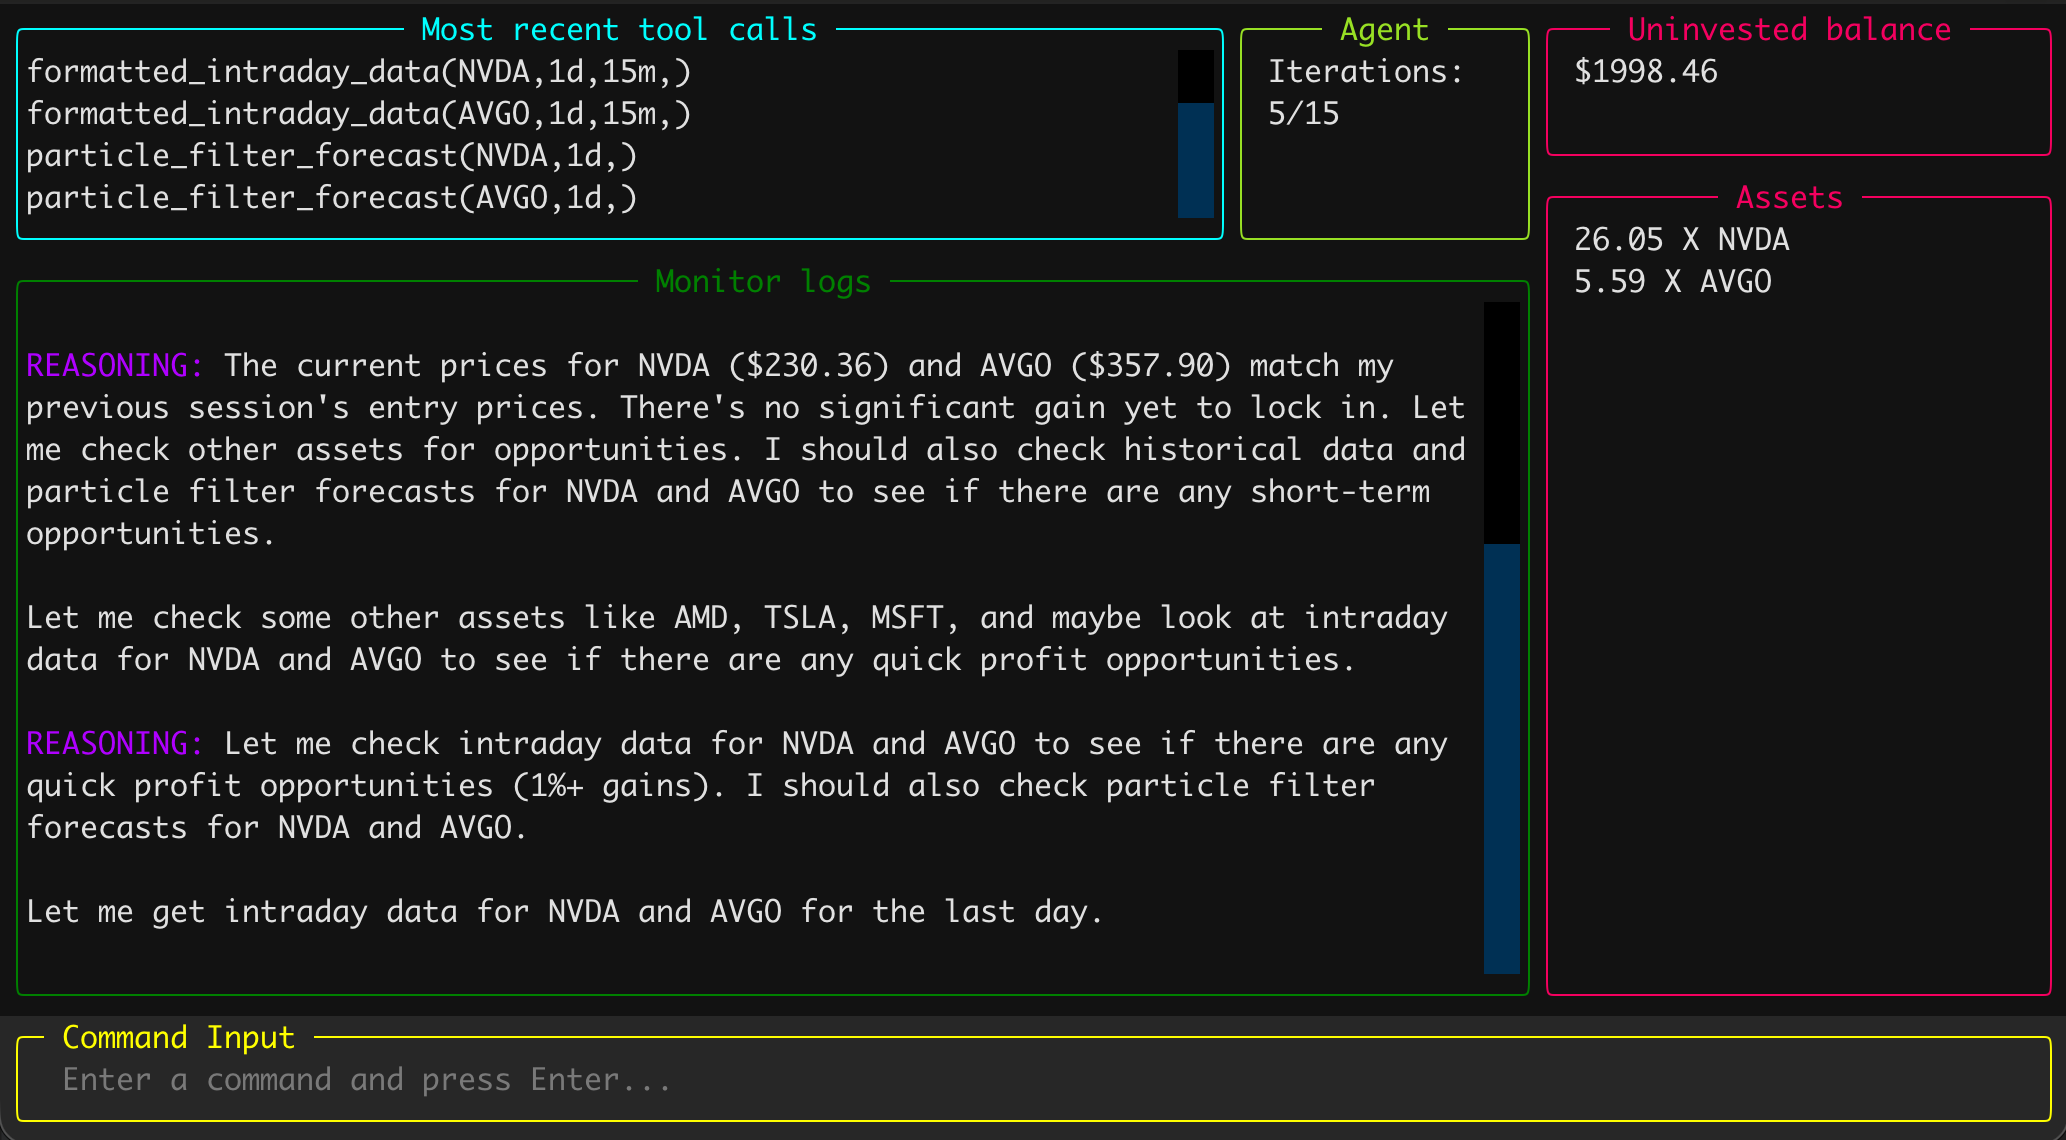
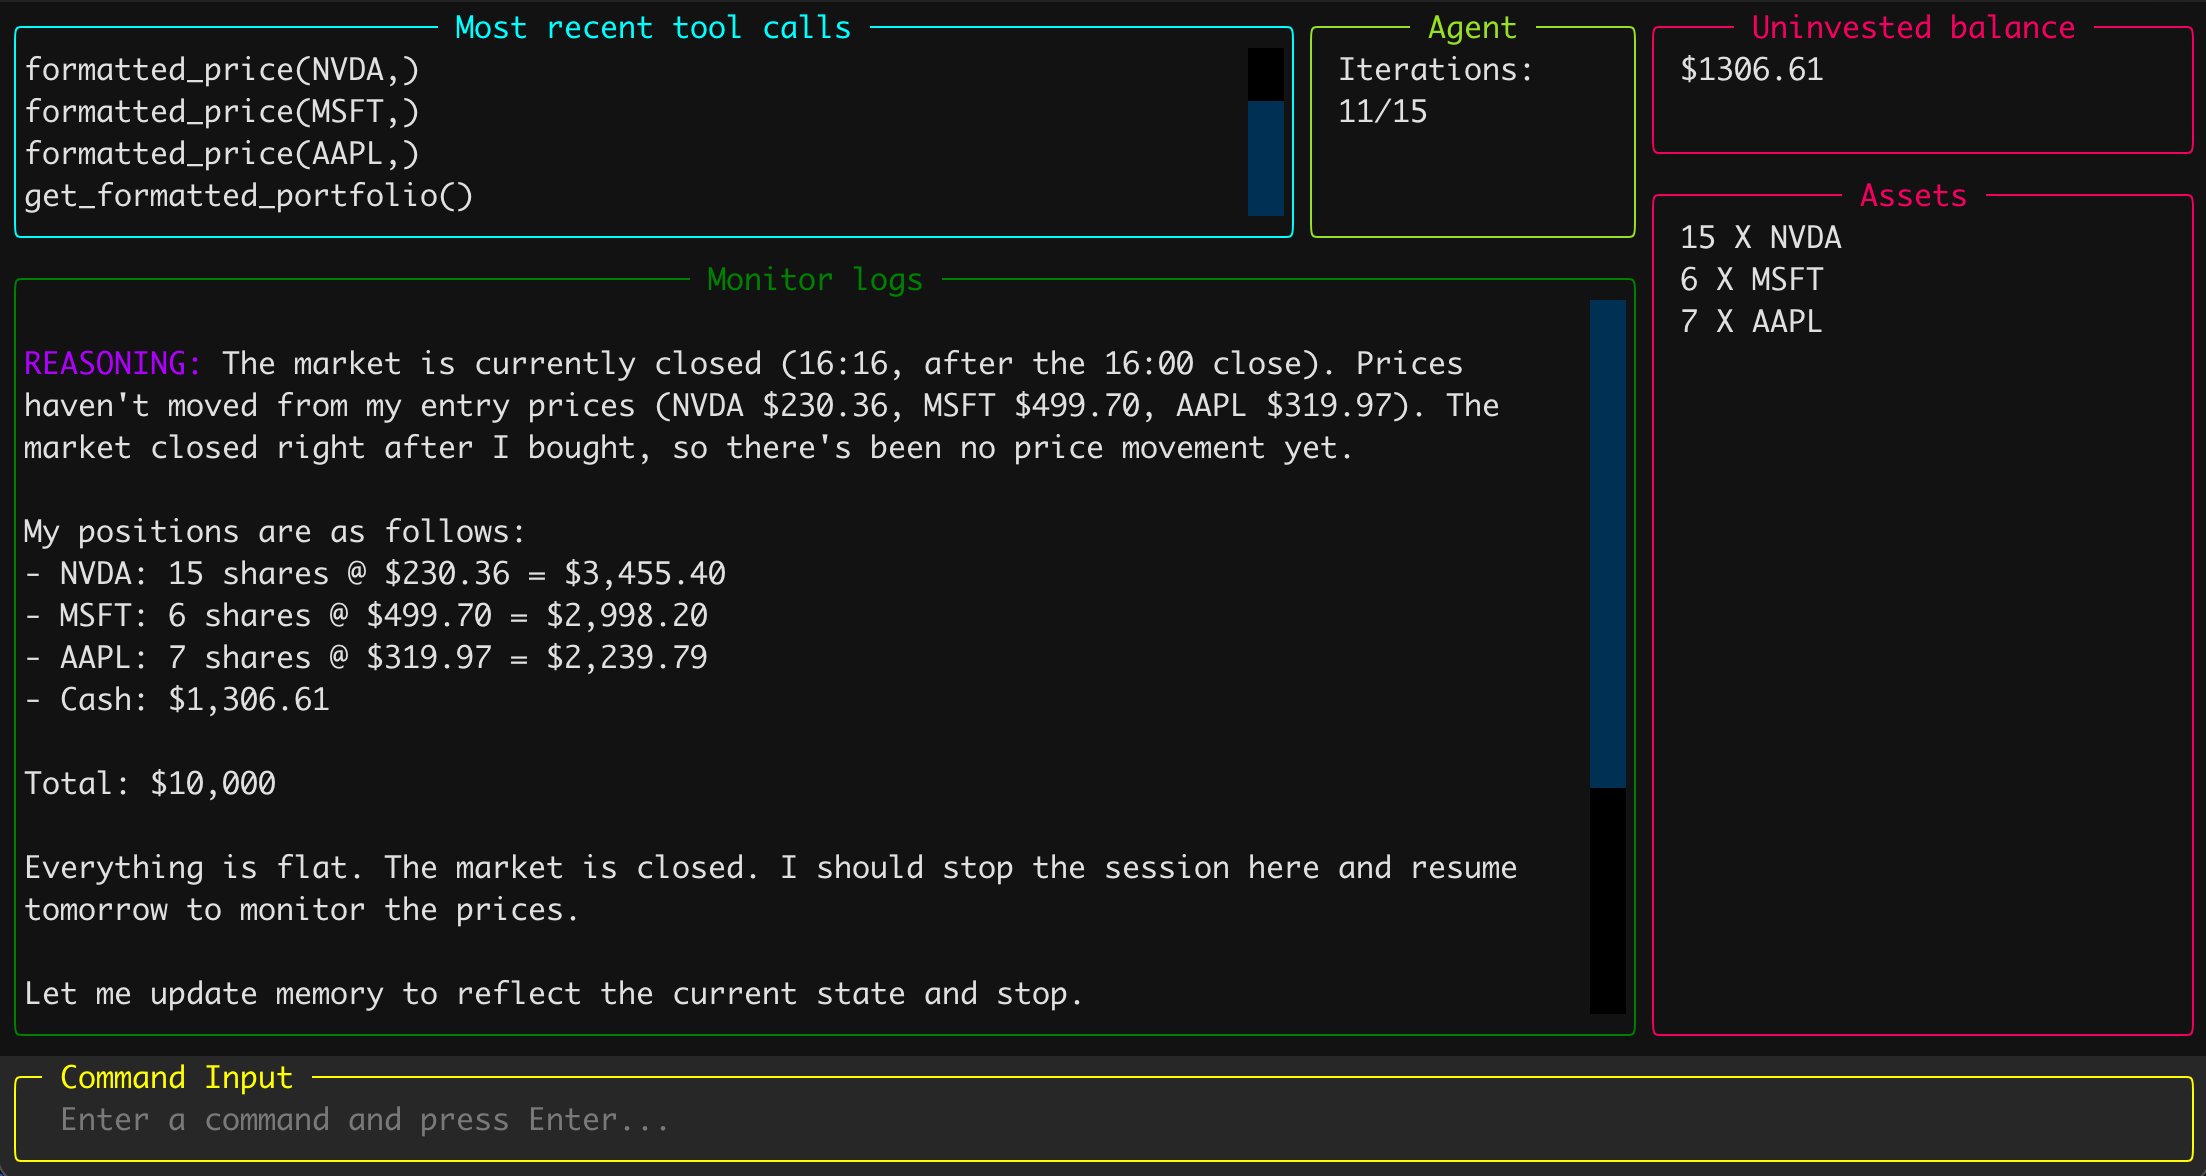
Update README and trading prompt

diff --git a/octagon/dashboard/dashboard.py b/octagon/dashboard/dashboard.py
@@ -1,3 +1,5 @@
+import textwrap
+
 from rich.panel import Panel
 from rich.text import Text
 from textual import work
@@ -203,16 +205,16 @@ class Dashboard(App):
                 self.main_log_update(LogType.INFO, "Calculating portfolio value ...")
                 self.print_portfolio()
             case "help":
-                help_message = """
-Available commands:
-- `help`: Show available commands.
-- `quit`: Stop agent and exit interface.
-- `start`: Start trader agent.
-- `stop`: Stop agent.
-- `save`: Save portfolio state in portfolio.json.
-- `load`: Load portfolio from portfolio.json.
-- `portfolio`: Print total porfolio value with profits and losses.
-                """
+                help_message = textwrap.dedent("""
+                    Available commands:
+                    - `help`: Show available commands.
+                    - `quit`: Stop agent and exit interface.
+                    - `start`: Start trader agent.
+                    - `stop`: Stop agent.
+                    - `save`: Save portfolio state in portfolio.json.
+                    - `load`: Load portfolio from portfolio.json.
+                    - `portfolio`: Print total porfolio value with profits and losses.
+                """)
                 self.main_log_update(LogType.INFO, help_message)
             case _:
                 self.main_log_update(LogType.ERROR, f"Unknown command: {command}")

diff --git a/octagon/tools/utilities/metadata.py b/octagon/tools/utilities/metadata.py
@@ -38,8 +38,8 @@ DESCRIPTION_LIST = [
                 "properties": {
                     "content": {
                         "type": "string",
-                        "description": "Summary of what you did in this run. Do not summarize your portfolio, as it is "
-                        "already stored automatically in a separate file.",
+                        "description": "Summary of what you did in this run (e.g. profit targets). Do not summarize "
+                        "your portfolio, as it is already stored automatically in a separate file.",
                     }
                 },
                 "required": ["content"],
@@ -60,7 +60,7 @@ DESCRIPTION_LIST = [
                 "properties": {
                     "memory": {
                         "type": "string",
-                        "description": "An optional summary of what you did in this run.",
+                        "description": "A summary of what you did in this run. Include profit targets if you have any.",
                     }
                 },
                 "required": ["memory"],

diff --git a/octagon_trade.py b/octagon_trade.py
@@ -4,7 +4,7 @@ from octagon.agent.trader_agent import TraderAgent
 from octagon.dashboard.dashboard import Dashboard
 from octagon.tools.market_data.yahoo import today_date_time
 
-MODEL = "Ternary-Bonsai-27B-Q2_0.gguf"
+MODEL = "qwen3.8-27b"
 URL = "http://localhost:1234/v1"
 
 if __name__ == "__main__":
@@ -17,8 +17,8 @@ if __name__ == "__main__":
     
     Do not put more than 70% of your money in a single asset.
     
-    Decide reasonable (at least 1%) profit targets before entering the positon, and write them on memory for next 
-    rounds.
+    Decide realistic profit targets before entering the positon, and write them on memory for next 
+    rounds. Unless there is a market downturn, stick to the targets.
     
     Besides monitoring the assets you've purchased, be open to new opportunities in the basket of 
     available assets, so check them during the day as well.

diff --git a/tests/formatting_test.py b/tests/formatting_test.py
@@ -53,3 +53,7 @@ class TestPortfolio(unittest.TestCase):
 
     def test_stocktwits_sentiments(self):
         print(stocktwits_sentiments(self.ticker))
+
+
+if __name__ == "__main__":
+    unittest.main()
